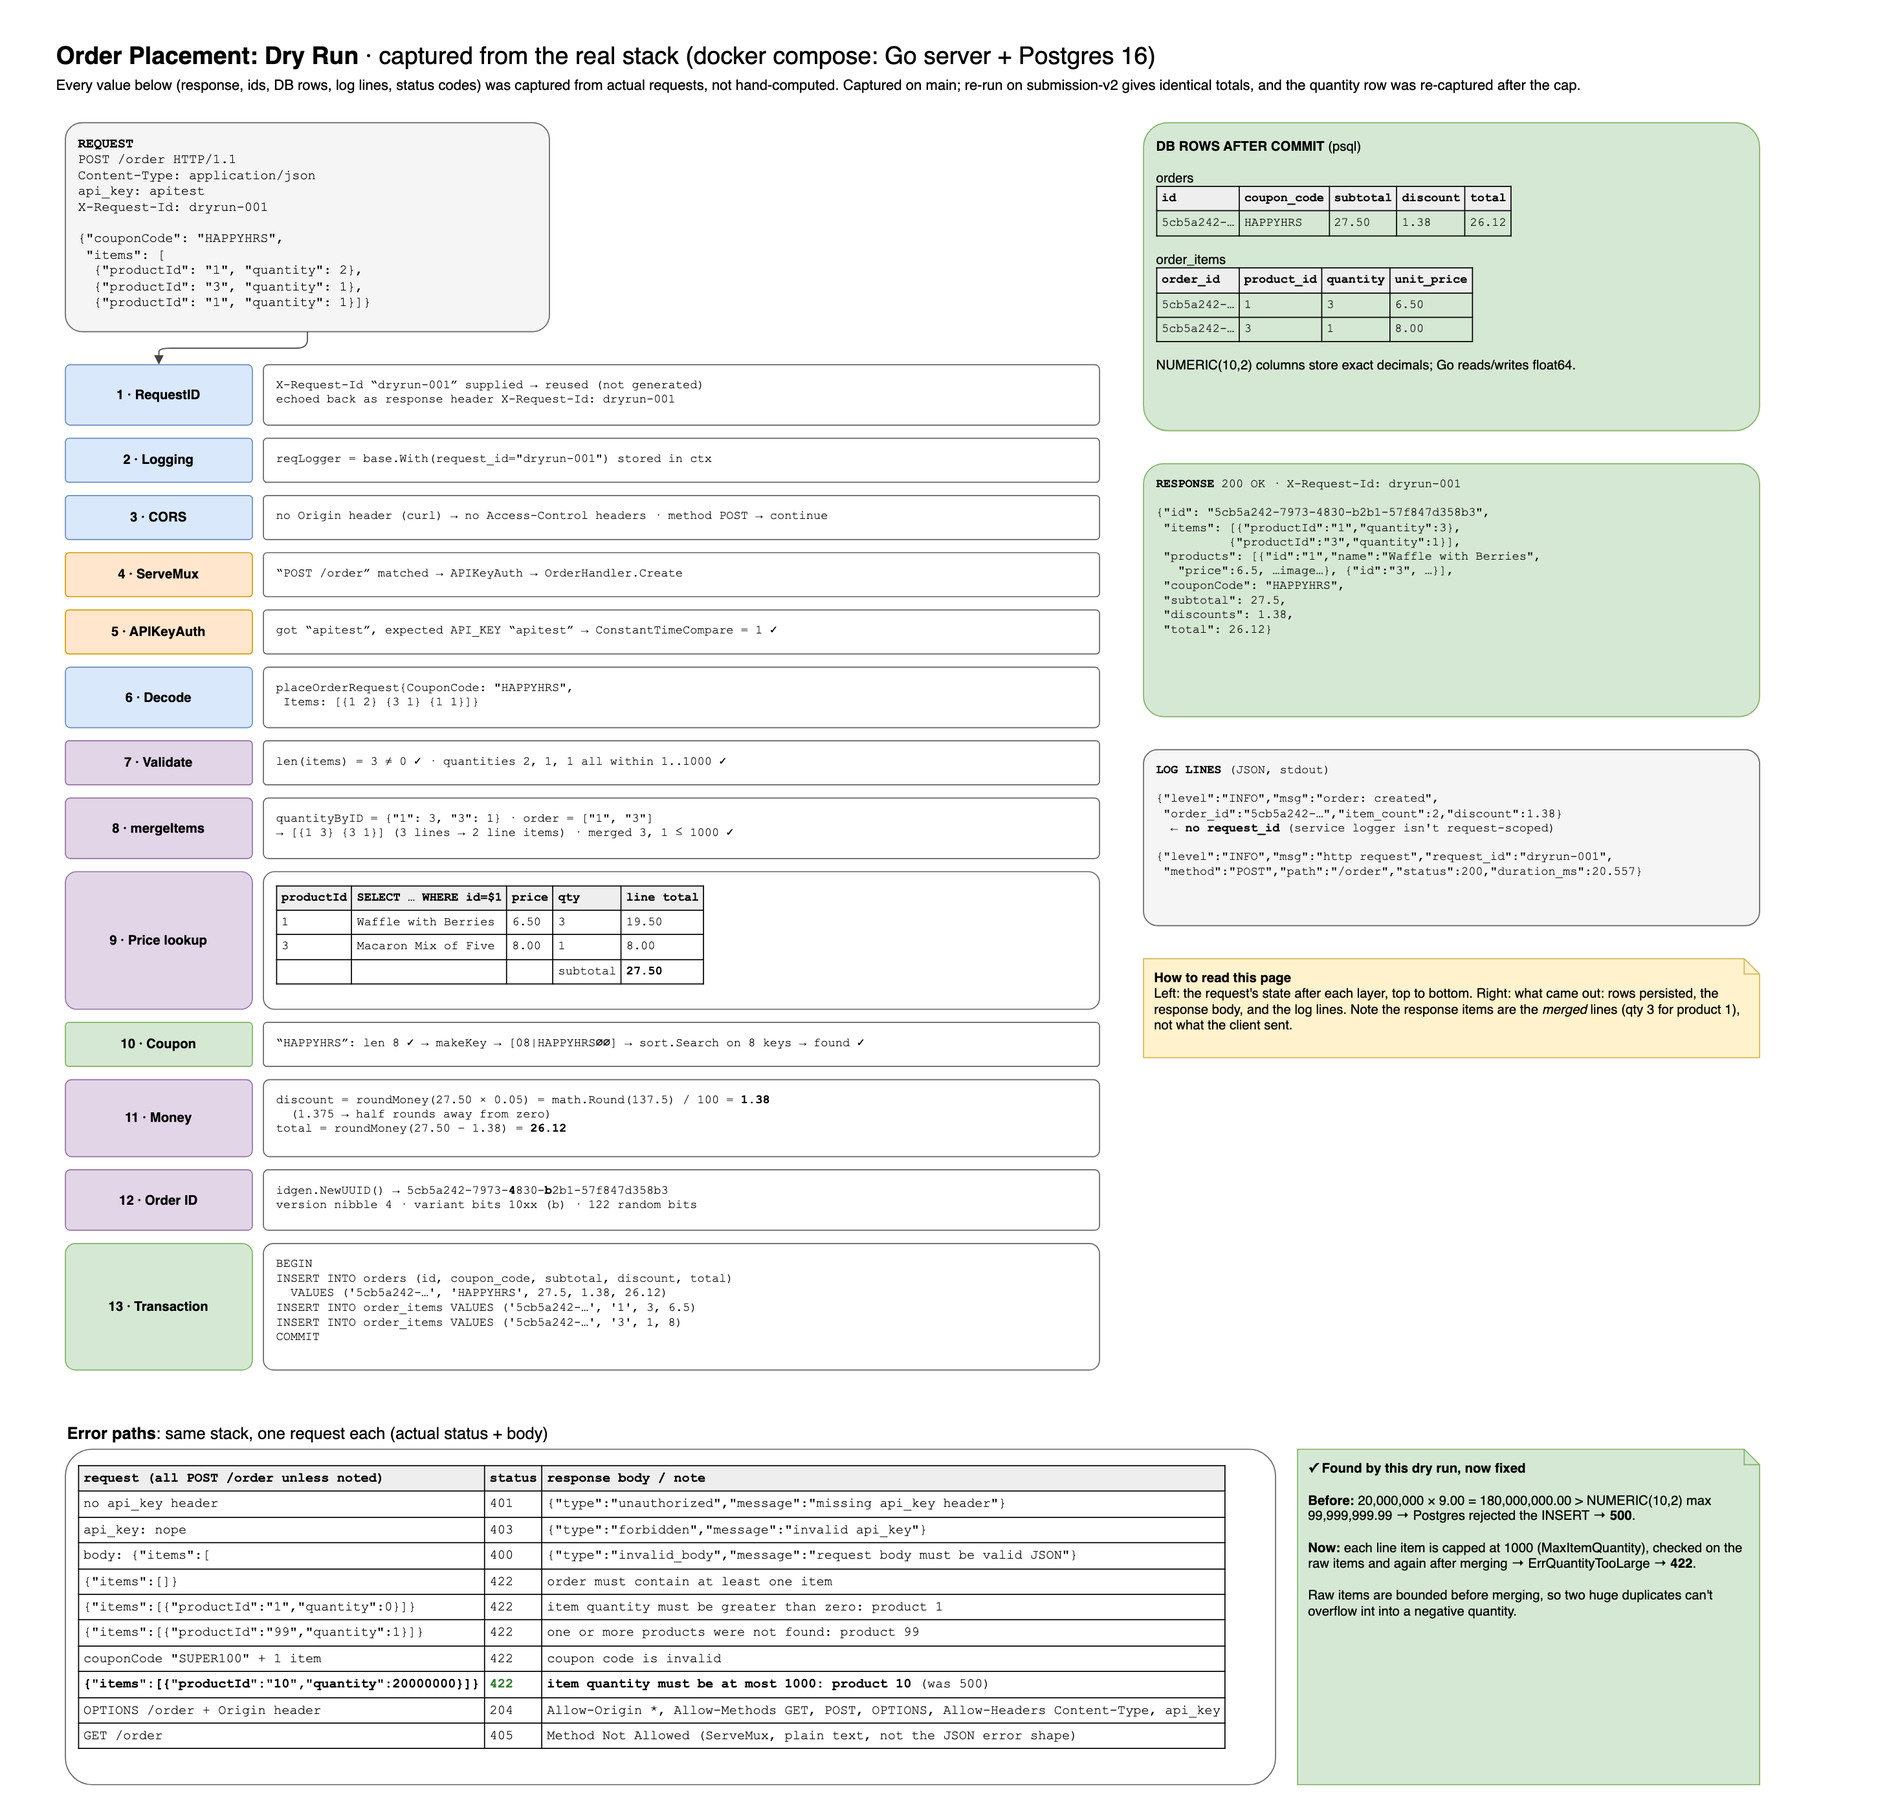
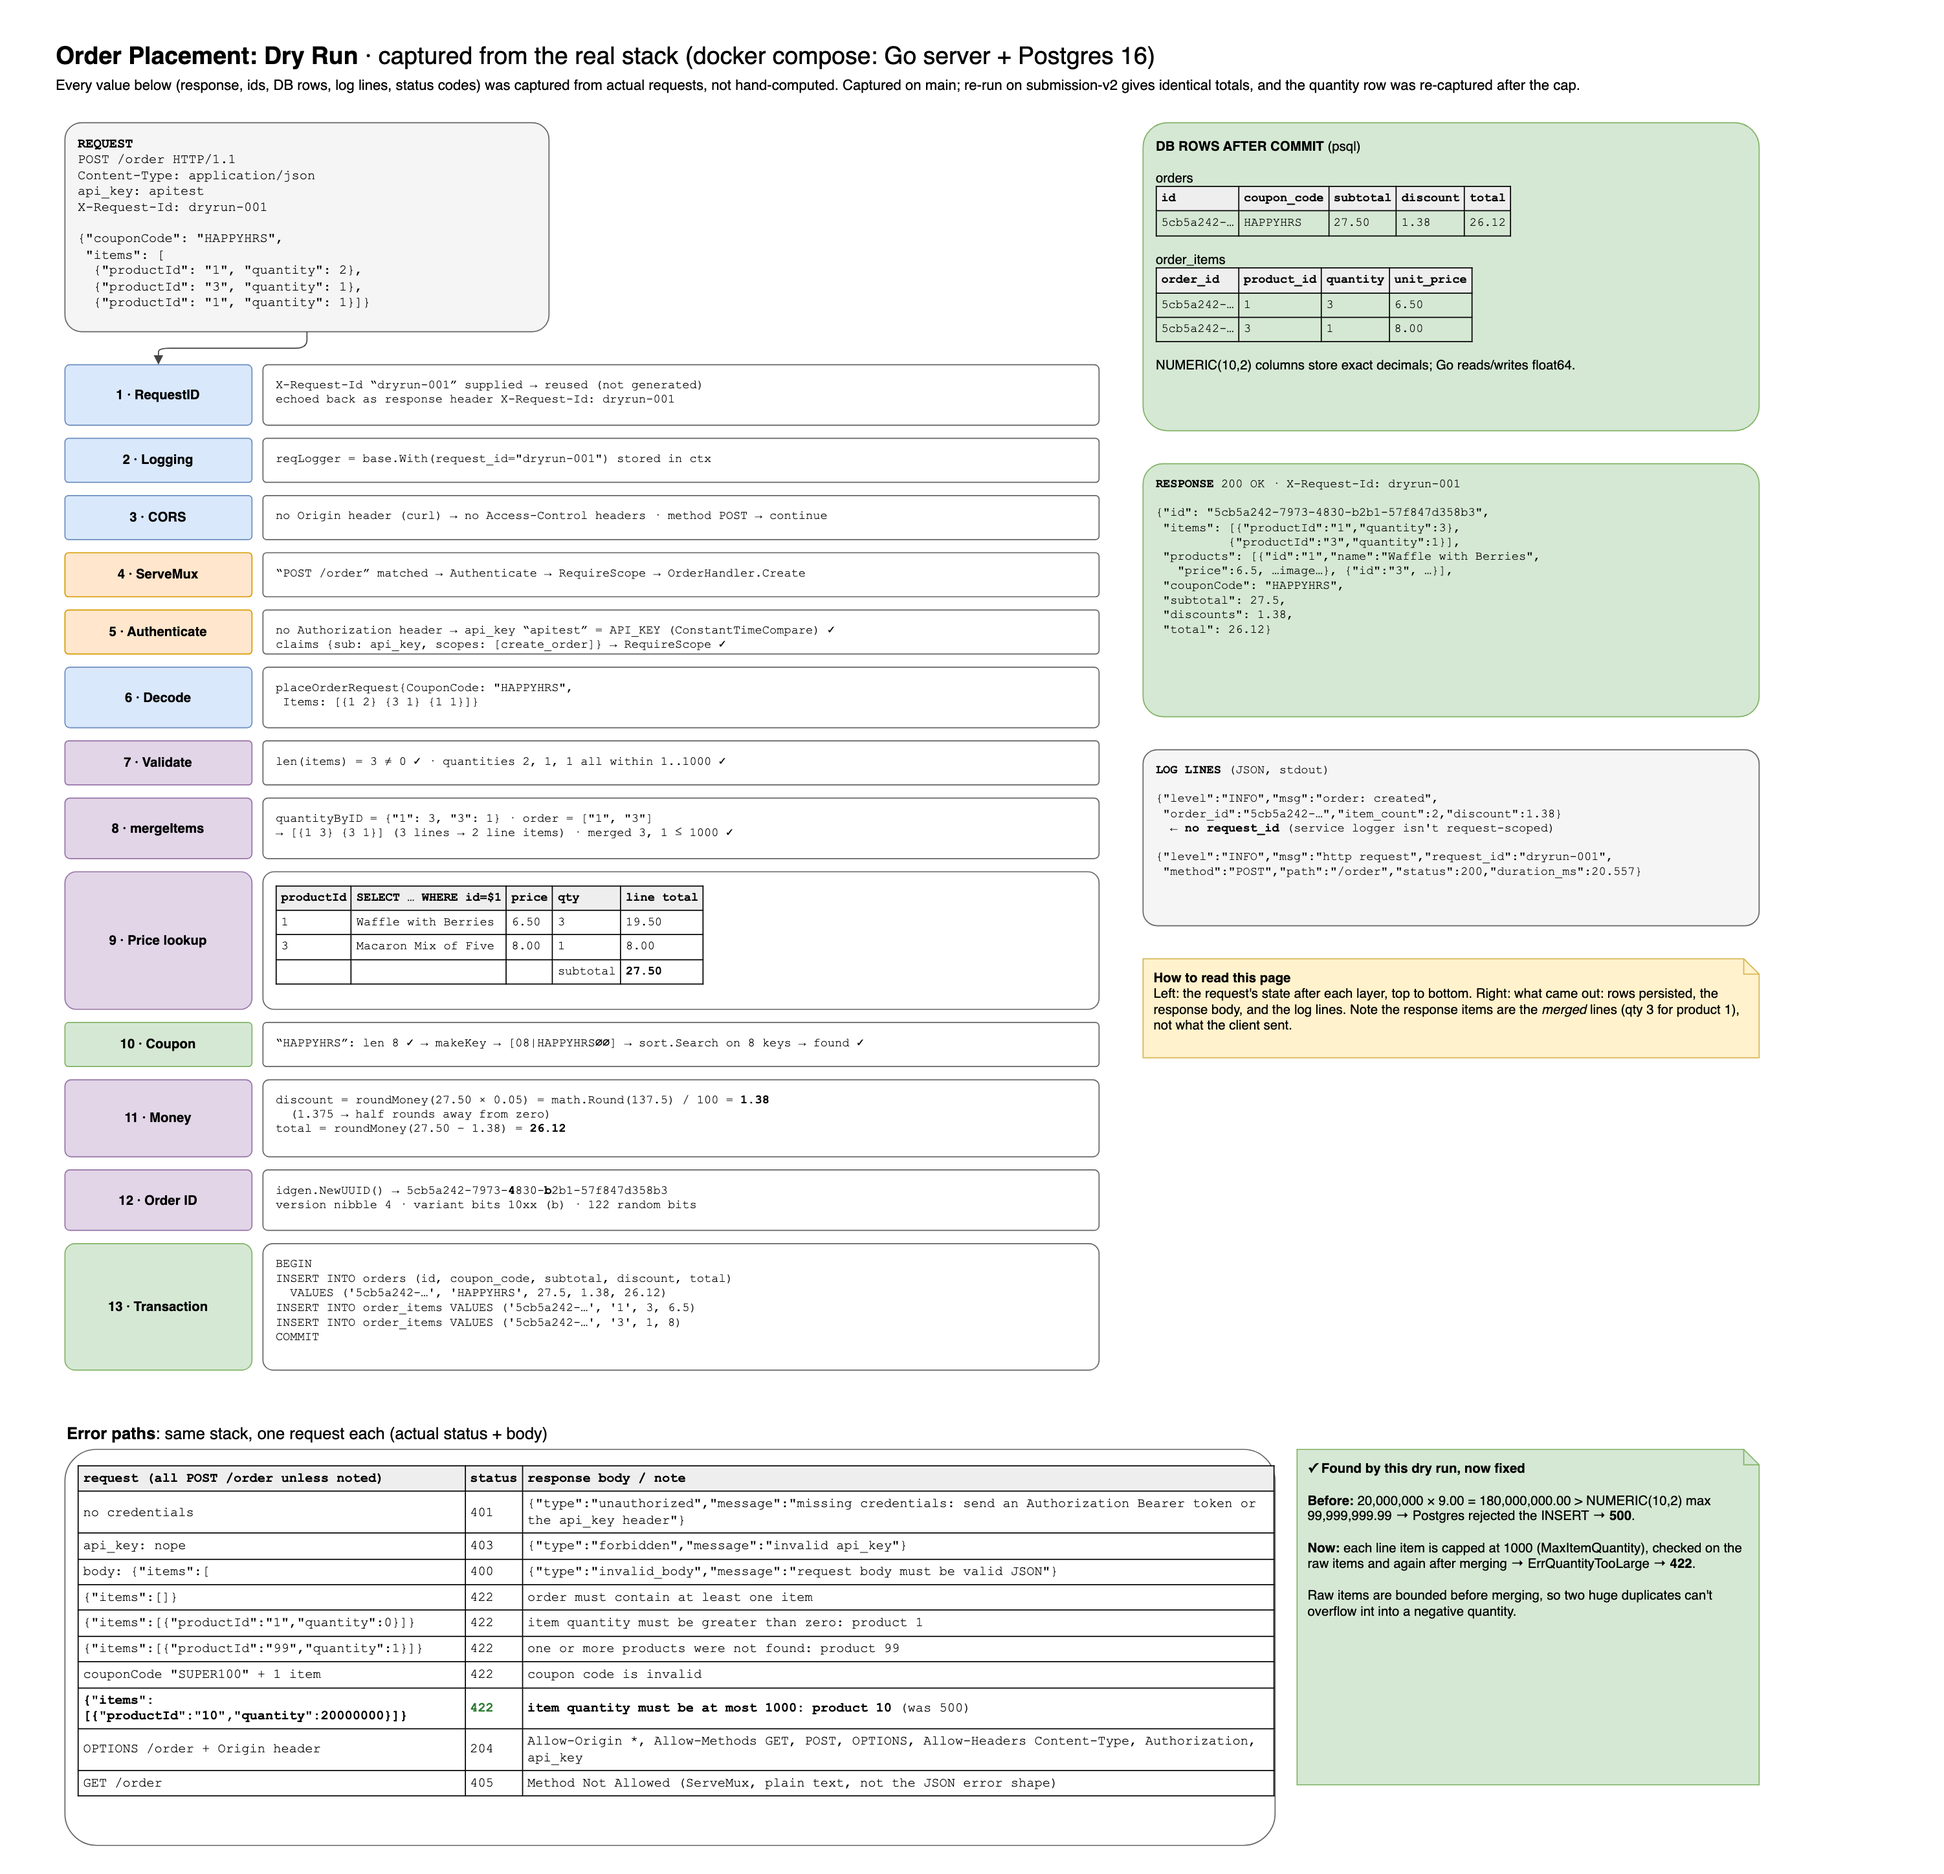
docs: add auth diagrams and update order diagrams for JWT
auth.drawio adds an HLD, an LLD with every branch and status code,
and a dry run captured on the real stack. The order diagrams now show
Authenticate and RequireScope instead of APIKeyAuth, with the
re-captured 401 message and CORS headers.

Changed region(s): [[0.031, 0.0, 0.9298, 0.9936]]

diff --git a/.claude/skills/oolio-kart/references/workflows.md b/.claude/skills/oolio-kart/references/workflows.md
@@ -50,7 +50,9 @@ lint running alongside can make it 3× slower.
 
 ## Diagrams
 
-- Sources: `docs/diagrams/order.drawio`, `coupon.drawio` (one page per view).
+- Sources: `docs/diagrams/order.drawio`, `coupon.drawio`, `auth.drawio` (one page
+  per view). Copies live in `/Users/vasanth/Desktop/oolio/diagrams`
+  (`order-placement.drawio`, `coupon-buildindex.drawio`, `auth-jwt.drawio`); keep them in sync.
   Edit in app.diagrams.net or the VS Code draw.io extension.
 - Export every page to cropped PNGs for the README:
 
@@ -63,7 +65,11 @@ lint running alongside can make it 3× slower.
   access to viewer.diagrams.net. Rename or map outputs to the file names the
   README uses (`order-hld.png`, `order-lld.png`, `order-dry-run.png`,
   `coupon-hld.png`, `coupon-package-map.png`, `coupon-lld.png`,
-  `coupon-dry-run.png`).
+  `coupon-dry-run.png`, `auth-hld.png`, `auth-lld.png`, `auth-dry-run.png`).
+- Playwright must match the browsers in `~/Library/Caches/ms-playwright`
+  (`npm i playwright@latest` worked; a pinned older version wanted a missing build).
+- To patch an existing page without reformatting it, replace only the `value`
+  attribute of the target `mxCell` ids (escape `& < > "`), then re-export.
 - Dry-run pages show captured values. If behaviour changes, re-capture on the
   real stack rather than editing numbers by hand.
 

diff --git a/README.md b/README.md
@@ -142,9 +142,7 @@ Spec: [`api/openapi.yaml`](api/openapi.yaml)
 
 ## Authentication
 
-```
-POST /auth/token {username, password} → bcrypt check → signed JWT → Authorization: Bearer <jwt> → POST /order
-```
+![Authentication: high-level design](docs/diagrams/auth-hld.png)
 
 ```bash
 TOKEN=$(curl -s -X POST localhost:8080/auth/token \
@@ -179,6 +177,18 @@ curl -X POST localhost:8080/order -H "Authorization: Bearer $TOKEN" \
 - **No user probing:** unknown user and wrong password get the same `401` and the same bcrypt cost
 - **Interface-first:** handlers depend on `auth.TokenIssuer`, `auth.TokenVerifier`, `auth.UserStore`; `JWTManager` and `MemoryUserStore` implement them
 - **Bearer wins:** if both headers are sent, only the Bearer token is checked
+
+<details>
+<summary><b>Auth flow: low-level design</b> (every branch and status code)</summary>
+
+![Authentication: low-level design](docs/diagrams/auth-lld.png)
+</details>
+
+<details>
+<summary><b>Auth flow: dry run</b> (real login, Bearer order and every error path)</summary>
+
+![Authentication: dry run](docs/diagrams/auth-dry-run.png)
+</details>
 
 ---
 

diff --git a/.claude/skills/oolio-kart/references/auth.md b/.claude/skills/oolio-kart/references/auth.md
@@ -43,6 +43,14 @@ POST /order  Authorization: Bearer <jwt>
   out of messages.
 - Never log tokens or passwords.
 
+## Diagrams
+
+`docs/diagrams/auth.drawio`: HLD, LLD (every branch of `/auth/token` and the
+middleware) and a dry run captured on the Compose stack (login, Bearer order,
+13 error paths, timing, metrics). Expired, no-scope and `alg: none` tokens were
+minted with a fixed session `JWT_SECRET` and a small HMAC script. The order
+diagrams show auth as one decision and point here.
+
 ## Tests
 
 `internal/auth/*_test.go` forge tokens with the jwt library (expired, wrong

diff --git a/CHANGELOG.md b/CHANGELOG.md
@@ -6,6 +6,14 @@ Format: [Keep a Changelog](https://keepachangelog.com/en/1.1.0/) · Versioning: 
 
 ## [Unreleased]
 
+### Added
+
+- **Auth diagrams:** `docs/diagrams/auth.drawio` (HLD, LLD, dry run captured on the real stack) embedded in the README Authentication section
+
+### Changed
+
+- Order diagrams show `Authenticate` + `RequireScope` instead of `APIKeyAuth`, with the re-captured 401 message and CORS headers
+
 ## [1.3.0] - 2026-09-24
 
 ### Added

diff --git a/.claude/skills/oolio-kart/references/architecture.md b/.claude/skills/oolio-kart/references/architecture.md
@@ -85,5 +85,6 @@ disable CORS (it becomes `*`). Don't document otherwise.
 
 ## Diagrams
 
-`docs/diagrams/order.drawio` (HLD, LLD, dry run) and `coupon.drawio` (HLD,
-package map, LLD, dry run), with PNG exports embedded in the README.
+`docs/diagrams/order.drawio` (HLD, LLD, dry run), `coupon.drawio` (HLD,
+package map, LLD, dry run) and `auth.drawio` (HLD, LLD, dry run), with PNG
+exports embedded in the README.
